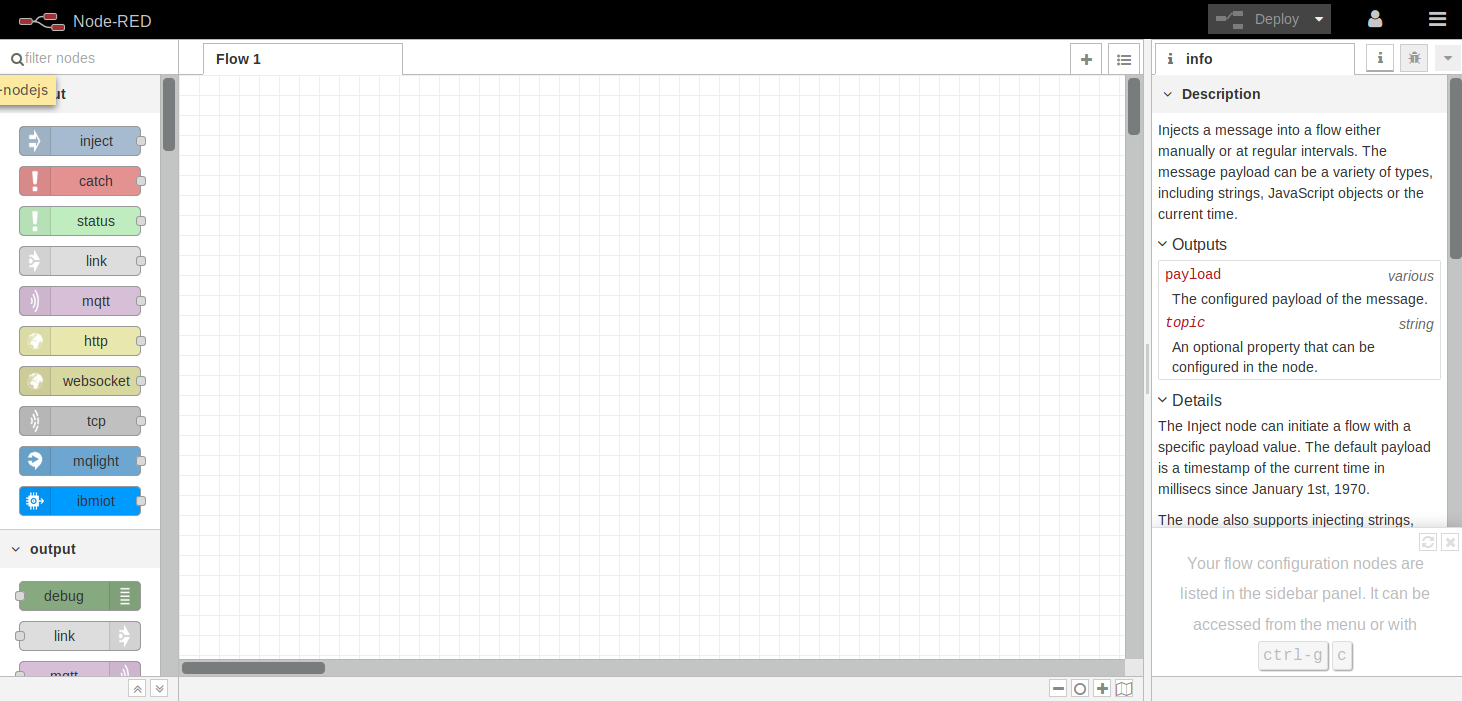
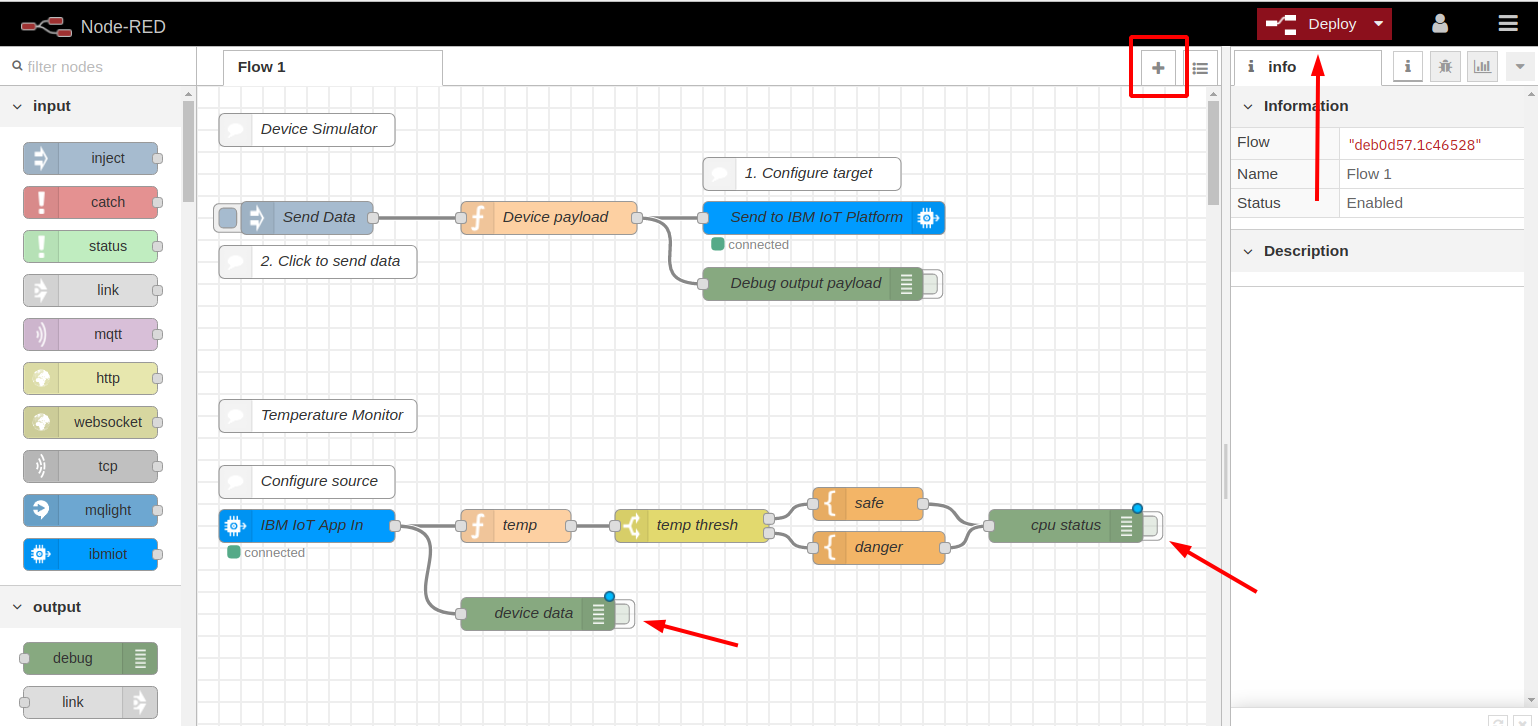
IoTP Starter complete

Changed region(s): [[0.0, 0.0, 1.0, 1.0], [0.277, 0.8088, 0.4925, 0.8987], [0.8618, 0.9287, 0.9234, 0.9586]]

diff --git a/documents/IoT-Starter.md b/documents/IoT-Starter.md
@@ -4,8 +4,6 @@ In the IBM Cloud Dashboard create an instance of the [Internet of Things Platfor
 
 Perform the following steps:
 
-Create an instance of the Starter Kit:
-
 a. Log in to or register for IBM Cloud at https://cloud.ibm.com.
 
 b. Open the catalog by selecting the catalog tab.
@@ -19,9 +17,9 @@ d. On the Create a Cloud Foundry App page, select a region, then scroll down
 ![Region](images/select-region.png)
 
 
-e. In the "Configure your resource" area, if you see "No org available" for the organization and/or "No space avalable" for space, go back and select another region , then try again.
+e. In the "Configure your resource" area, if you see "No org available" for the organization and/or "No space avalable" for space, go back and select another region, then try again.
 
-f. Enter a unique
+f. Enter a unique (e.g. add your intials to name):
 
     App Name
     Host Name (the same as App name)
@@ -39,7 +37,7 @@ Leave the defaults for the rest.
 
 g. Click Create.
 
-After the application is deployed, the Getting Started page of your new app is displayed. The status will be "starting" for a while, this will switch to "ready" or "This app is awake" once it is started.
+After the application is deployed, the Getting Started page of your new app is displayed. The status will be "starting" for a while, this will switch to "ready" or "This app is awake" once it is started. If it doesn't start there is a fix for it in the next section.
         
 Note: The staging process might take a few minutes.
 
@@ -91,13 +89,13 @@ Save the file (via File menu or with Ctl-s). Then open the Git client of the IDE
 
 ![git commit](images/git-package.json.png)
 
-Enter a commit message, click the "Commit" button, the commit will sho up in the Outgoing area, then click "Push" there. There should be a message that the Push was successful.
+Enter a commit message, click the "Commit" button, the commit will show up in the Outgoing area, then click "Push" there. There should be a message that the Push was successful.
 
-Click on the left arrow (<--)  in the upperl left corner (next to "Repository") to return to the toolchain overview, the click on "Delivery Pipeline":
+Click on the left arrow (<--)  in the upper left corner (next to "Repository") to return to the toolchain overview, there click on "Delivery Pipeline":
 
 ![pipeline](images/pipeline-package.json.png)
 
-Wait until the Build Stage is green and shows "STAGE PASSED" and the Deploy Stage turned blue and shows "STAGE RUNNING ...", the click on "View logs and history". There you can watch the Cloud Foundry build process which should end with a green "Finished: SUCCESS" message.
+Wait until the Build Stage is green and shows "STAGE PASSED" and the Deploy Stage turned blue and shows "STAGE RUNNING ...", then click on "View logs and history". There you can watch the Cloud Foundry build process which should end with a green "Finished: SUCCESS" message.
 
 If it doesn't finish successful, check the log for errors.
 
@@ -105,11 +103,11 @@ If it doesn't finish successful, check the log for errors.
 
 ### Continue with the IoT Platform Starter
 
-Open the Overview page of your app. Under Connections you can see one Service, a Cloudant Database, bound to the Cloud Foundry App. Cloudant is a NoSQL database and used to store the code, Cloud Foundry apps have no persistent file system.
+Open the Overview page of your app. Under Connections you can see two services, a Cloudant Database and an IoT Platform Service, bound to the Cloud Foundry App. Cloudant is a NoSQL database and used to store the code, Cloud Foundry apps have no persistent file system.
 
 ![CF Overview](images/nodered-overview.png)
 
-Click on Runtime and Environment Variables. Here you see something Cloud Foundry specific. Cloud Foundry uses an environment variable (VCAP_SERVICES) that is injected into the container that executes the application code. The application is able to read the environment variable which contains the credentials (all the information that an application needs to access a service like URL, user, password, and such) of all bound services. If you scroll through VCAP_SERVICES you can see a JSON object for "cloudantNoSQLDB" and it contains the access information for the Cloudant database. 
+Click on Runtime and Environment Variables. Here you see something Cloud Foundry specific. Cloud Foundry uses an environment variable (VCAP_SERVICES) that is injected into the container that executes the application code. The application is able to read the environment variable which contains the credentials (all the information that an application needs to access a service like URL, user, password, and such) of all bound services. If you scroll through VCAP_SERVICES you can see a JSON object for "iotf-service" and another JSON object for "cloudantNoSQLDB", they contain the access information for the services. Cloud Foundry Apps read the VCAP_SERVICES environment variable during startup and then have the access credentials to those services.
 
 ![VCAP](images/nodered-runtime.png)
 
@@ -117,125 +115,13 @@ Now click on "Visit App URL" .
 
 When you start Node-RED on the IBM Cloud for the first time you are asked to secure the editor. This is a good thing otherwise it would be accessible to everybody on the Internet. Secure it by entering a Username and Password (which you should be able to remember!) A certain level of password complexity is required otherwise you can't continue. Finish the setup and wait for a generic Node-RED page to appear. Click on "Go to your Node-RED flow editor". It will ask for your Username and Password. 
 
-Node-RED will open with an empty "flow":
+Node-RED will open with an sample "flow":
 
 ![NodeRED](images/nodered-editor.png)
 
 The left part is the "Palette", the middle section is the workspace, on the right you can see different types of information, default is to open up in the "Information" view.
 
-## Create API Key for Node-RED
-
-Node-RED needs to be able to access the IoT Platform service and in order to do that it requires an API Key.
-
-1. Go back to the IBM Cloud Dashboard and in the burger menu select "Resource List".
-
-2. Open the "Cloud Foundry Services" section and click on your IoT Platform service. Click on the name (which is a link)!
-
-3. Click on "Launch" to open the IoT Platform dashboard.
-
-4. Open the "Apps" section in the left menu, the click on "+ Generate API Key"
-
-    ![Gen API](images/iotp-api-key.png)
-
-5. Enter a description (e.g. "Node-RED") and click "Next".
-
-6. Leave the role "Visualisation Application", this gives access to live data.
-
-7. Click "Generate Key" and make a copy of the API Key and especially the Authentication Token, this cannot be recovered later!
-  
-    ![API Key](images/api-key.png)
+We will leave the example on "Flow 1" but need to deactivate the two active Debug nodes: click on the slider on the right side of the node, the slider will "move in" a bit, its color will turn from green to grey, a blue dot will appear at the nodes. Click the red "Deploy" button, when deployment is complete, the button will turn grey. Click on "+" to create another empty flow ("Flow 2").
 
 
-## Create a flow
-
-You are now ready to create your first "flow".  
-
-1. From the "input" section of the palette drag and drop a blue "ibmiot" node to the workspace.
-
-2. From the "output" section of the palette drag and drop a green "debug" node to the workspace and place it to the right of the "ibmiot" node".
-
-3. Both nodes have a grey I/O "port" (grey squares with rounded corners), the "ibmiot" node on the right side (this is an output), the "debug" node on the left side (this is an input). 
-
-   If you move the cross shaped cursor directly over an I/O port, its color changes to orange. At that moment you click the left mouse button, then you can draw a wire connection to another I/O port while holding the mouse botton. When you reach the other I/O port, release the mouse button. 
-   
-   Using this method connect the "ibmiot" node with the "debug" node:
-
-    ![1stFlow](images/FirstFlow.png)
-
-4. Double click the "ibmiot" node, this opens the Properties dialog. Authentication is "API Key". Click the "Edit" symbol to the right of "Add new ibmiot...".
-
-5. The properties dialog of "Add new ibmiot config node" opens. 
-
-   Enter a name, the API Key, and the Authentication Token. We have created a keythis in the section [Create API Key for Node-RED](#Create-API-Key-for-Node-RED). 
-   
-   Server name is your IoTP Org ID (see config.json in the iot-app directory) followed by ".messaging.internetofthings.ibmcloud.com". 
-   
-   "Add" the config node.
-
-   ![iotp config node](images/iotp-config-node.png)
-
-6. Back in the "Edit ibmiot node" dialog:
-
-    Input type should remain "Device Event", we use an event topic in the simulator code.
-
-    Enter the name of your "Device Type", select "All" for ID, enter the Event, "json" for Format (again, this can be found in the config.json file in iot-app). Click "Done" then "Deploy". 
-
-    ![Properties](images/ibmiot-node.png)
-
-7. If your node.js simulator is stopped, start it again (npm start).
-
-8. In the right window section, open the Debug view ("bug" icon). You should see the MQTT messages coming in:
-
-   ![Debug View](images/DebugInfoMQTT.png)
-
- We now have a full MQTT chain: a (simulated)  device is sending sensor data (temperature and humidity) via MQTT to an MQTT Broker (IoT Platform), and an application is subscribing to this data and displaying it. 
-
- In the next section we will learn how to save the data into the Cloudant database and then how to display data a little nicer by extending Node-RED.
-
-### Store IoT data in Cloudant database
-
-Cloudant is a NoSQL database. It is a commercial database service offering in the IBM Cloud and it is based on Apache CouchDB. Unlike Relational or SQL databases, NoSQL databases do not have a fixed structure of their records. Instead, they can store data in variable JSON format. Remember, our IoT data are in JSON format, too.
-
-Have a look at the Cloudant dashboard:
-
-1. In the Resource List, open the Cloud Foundry Services and the Services section. 
-
-   You will see a Cloudant service in each of them, but the service in the Cloud Foundry Service section has a link symbol. When you hover your mouse pointer over the link symbol you'll see that it is an alias. IBM Cloud needs the alias to bind it to the Cloud Foundry app.
-
-   ![Cloudant in Resource List](images/Cloudant.png)
-
-2. Click on the name of the Cloudant service in the Services section (non alias). 
-
-   This opens the Manage Cloudant view with additional details. In here click on "Launch Cloudant Dashboard".
-
-3. The Databases view of the Cloudant dashboard opens and you should see a database "nodered". This database holds Node-RED information. Have a look at it but do not change anything, it would most likely destroy your Node-RED instance.
-
-4. Go back to the Node-RED editor in your browser.
-
-5. In the palette, scroll down to the "storage" section.
-
-6. There are 2 Cloudant nodes. 
-
-   One is a node for searching documents (input and output port), the other is a simple Cloudant output node (which only has an input). 
-   
-   Drag this out node to your workspace somewhere under the debug node, connect it with the ibmiot node, and double click it to open the Properties dialog.
-
-   ![Cloudant Properties](images/CloudantProperties.png)
-
-7. The Service field already shows the name of the Cloudant alias.
-
-   Enter a name for the database, e.g. "iot-data". Click Done, then Deploy.
-
-   Make sure your simulator is still running!
-
-8. Go back to the database view of the Cloudant dasboard. 
-
-   You will see a database "iot-data" that hasn't been there before. It should indicate that it already contains some records. Open it.
-
-   It looks kind of cryptic, Cloudant is automatically creating Id's for us. If you open one of the records, the data should look familiar, though. Every bit of information the IoT Platform, the MQTT Broker, provides is there. The "_id" and "_rev" fields are Cloudant internal.
-
-   ![Cloudant IoT Data](images/CloudantIoTData.png)
-
-This was a very simple way to store IoT data. You would use this if you need to archive historical data or use an anlytics or machine learning tool to further analyse the data.
-
-__Continue with [Dashboard ](DASHBOARD.md)__   
+__Continue with [XXX ](XXX.md)__   
